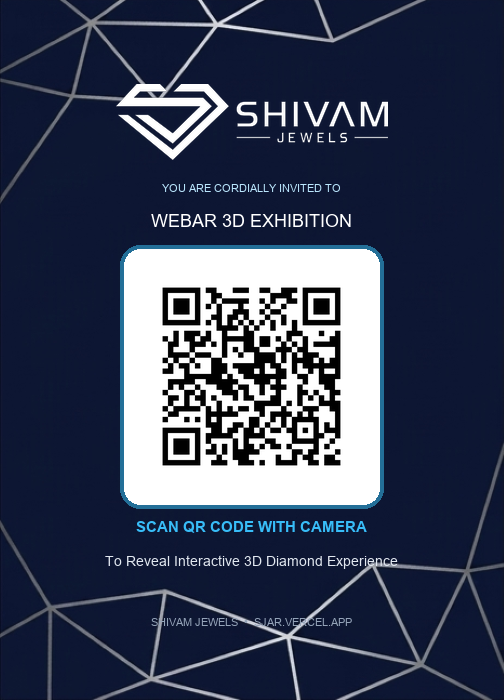
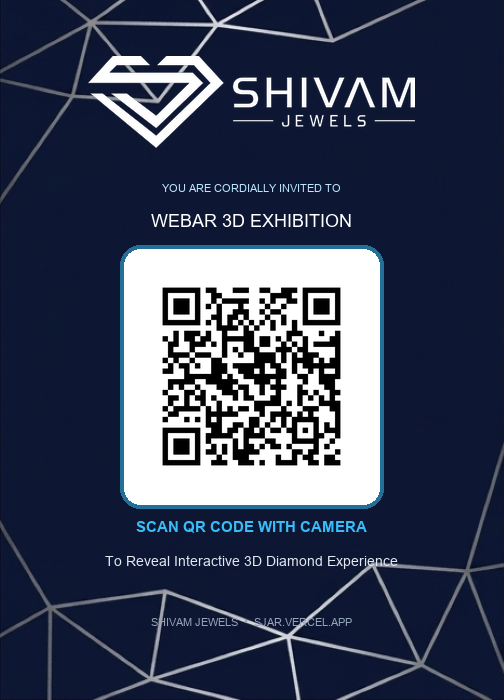
.

Changed region(s): [[0.1786, 0.06, 0.8333, 0.24]]

diff --git a/js/app.js b/js/app.js
@@ -1,11 +1,17 @@
 /**
  * WebAR MindAR.js & A-Frame Controller for Shivam Jewels
  * 
- * Handles camera permission, real-time QR code decoding,
- * MindAR target tracking, and camera-to-target distance calculation.
+ * Strict Dual-Requirement Verification:
+ * 1. MindAR image target border match (targets.mind)
+ * 2. Real-time QR Code scanning & payload verification (jsQR.js)
+ * 
+ * ONLY when BOTH requirements pass does the 3D invitation card view render.
  */
 (function() {
-  let isTracking = false;
+  let isMindArFound = false;
+  let isQrScanned = false;
+  let isDualVerified = false;
+  let lastQrMatchTime = 0;
   let qrScanInterval = null;
 
   // Synthesized Web Audio API Synthesizer for feedback chimes
@@ -43,6 +49,67 @@
       }
     } catch (e) {
       console.warn("Audio chime error:", e);
+    }
+  }
+
+  // Dual Condition Evaluator Function
+  function evaluateDualRequirements() {
+    const statusPill = document.getElementById('status-pill');
+    const statusText = document.getElementById('status-text');
+    const reticle = document.getElementById('scanning-reticle');
+    const targetEntity = document.getElementById('ar-target');
+
+    const gltfModel = document.getElementById('3d-model-entity');
+    const modelContainer = document.getElementById('3d-model-container');
+    const cardBackPlane = document.getElementById('card-back-plane');
+    const bannerPlane = document.getElementById('banner-plane');
+    const logoPlane = document.getElementById('logo-plane');
+
+    // STRICT DUAL-MATCH CONDITION:
+    // Requirement 1: QR Code is scanned in frame AND
+    // Requirement 2: Card Border target rays are matched via MindAR
+    if (isMindArFound && isQrScanned) {
+      if (!isDualVerified) {
+        isDualVerified = true;
+        if (statusPill) statusPill.className = 'status-pill tracking';
+        if (statusText) statusText.textContent = 'Shivam Jewels QR & Border Verified!';
+        if (reticle) reticle.classList.add('hidden');
+        playSound('found');
+
+        // Reveal 3D invitation card & 3D model
+        [gltfModel, modelContainer, cardBackPlane, bannerPlane, logoPlane].forEach(el => {
+          if (el) {
+            el.setAttribute('visible', 'true');
+            if (el.object3D) el.object3D.visible = true;
+          }
+        });
+        if (targetEntity && targetEntity.object3D) targetEntity.object3D.visible = true;
+      }
+    } else {
+      if (isDualVerified) {
+        isDualVerified = false;
+        if (statusPill) statusPill.className = 'status-pill searching';
+        if (reticle) reticle.classList.remove('hidden');
+
+        // Hide 3D invitation card & 3D model until both requirements are fulfilled
+        [gltfModel, modelContainer, cardBackPlane, bannerPlane, logoPlane].forEach(el => {
+          if (el) {
+            el.setAttribute('visible', 'false');
+            if (el.object3D) el.object3D.visible = false;
+          }
+        });
+      }
+
+      // Update descriptive status message for user
+      if (statusText && !isDualVerified) {
+        if (isMindArFound && !isQrScanned) {
+          statusText.textContent = 'Border Matched - Scan QR Code...';
+        } else if (!isMindArFound && isQrScanned) {
+          statusText.textContent = 'QR Matched - Align Card Border...';
+        } else {
+          statusText.textContent = 'Scanning Target...';
+        }
+      }
     }
   }
 
@@ -102,54 +169,21 @@
   };
 
   function initApp() {
-    const statusPill = document.getElementById('status-pill');
-    const statusText = document.getElementById('status-text');
-    const reticle = document.getElementById('scanning-reticle');
     const targetEntity = document.getElementById('ar-target');
 
-    // Real-time camera-to-target distance calculator
-    function updateDistanceTracking() {
-      if (!isTracking) return;
-      const camera = document.querySelector('a-camera');
-      if (camera && targetEntity && targetEntity.object3D) {
-        const camPos = camera.object3D.position;
-        const targetPos = targetEntity.object3D.position;
-        const dist = camPos.distanceTo(targetPos);
-
-        if (dist > 0.01 && statusText) {
-          statusText.textContent = `Shivam Jewels QR Matched (${dist.toFixed(2)}m)`;
-        }
-      }
-    }
-
-    setInterval(updateDistanceTracking, 200);
-
-    // Target tracking event listeners
+    // MindAR Target tracking event listeners
     if (targetEntity) {
       targetEntity.addEventListener('targetFound', () => {
-        isTracking = true;
-        if (statusPill) statusPill.className = 'status-pill tracking';
-        if (statusText) statusText.textContent = 'Shivam Jewels QR Matched!';
-        if (reticle) reticle.classList.add('hidden');
-        playSound('found');
-
-        // Ensure 3D diamond entity, card back plane, banner plane & logo plane are explicitly visible
-        const gltfModel = document.getElementById('3d-model-entity');
-        const modelContainer = document.getElementById('3d-model-container');
-        const cardBackPlane = document.getElementById('card-back-plane');
-        const bannerPlane = document.getElementById('banner-plane');
-        const logoPlane = document.getElementById('logo-plane');
-        
-        [gltfModel, modelContainer, cardBackPlane, bannerPlane, logoPlane].forEach(el => {
-          if (el) {
-            el.setAttribute('visible', 'true');
-            if (el.object3D) el.object3D.visible = true;
-          }
-        });
-        if (targetEntity.object3D) targetEntity.object3D.visible = true;
+        isMindArFound = true;
+        evaluateDualRequirements();
       });
 
-      // Listen for 3D GLB model loading and enhance specular materials for 54-gem showcase ring
+      targetEntity.addEventListener('targetLost', () => {
+        isMindArFound = false;
+        evaluateDualRequirements();
+      });
+
+      // Material enhancer for 3D GLB model
       const gltfModel = document.getElementById('3d-model-entity');
       if (gltfModel) {
         gltfModel.addEventListener('model-loaded', () => {
@@ -168,10 +202,6 @@
                     mat.color = new THREE.Color(0xdce2ea);
                     mat.roughness = 0.15;
                     mat.metalness = 0.9;
-                  } else if (mat.name.includes("Black")) {
-                    mat.color = new THREE.Color(0x0a0a0e);
-                    mat.roughness = 0.4;
-                    mat.metalness = 0.1;
                   }
                   mat.side = THREE.DoubleSide;
                   mat.needsUpdate = true;
@@ -181,13 +211,6 @@
           }
         });
       }
-
-      targetEntity.addEventListener('targetLost', () => {
-        isTracking = false;
-        if (statusPill) statusPill.className = 'status-pill searching';
-        if (statusText) statusText.textContent = 'Scanning Target...';
-        if (reticle) reticle.classList.remove('hidden');
-      });
     }
 
     const btnStartAr = document.getElementById('btn-start-ar');
@@ -199,17 +222,11 @@
   // Real-time Camera QR Code Scanner using jsQR
   const offscreenCanvas = document.createElement('canvas');
   const offscreenCtx = offscreenCanvas.getContext('2d');
-  let lastQrMatchTime = 0;
 
   function startQRScanningLoop() {
     if (qrScanInterval) return;
     qrScanInterval = setInterval(() => {
       const video = document.querySelector('video');
-      const gltfModel = document.getElementById('3d-model-entity');
-      const targetEntity = document.getElementById('ar-target');
-      const statusPill = document.getElementById('status-pill');
-      const statusText = document.getElementById('status-text');
-      const reticle = document.getElementById('scanning-reticle');
 
       if (!video || video.readyState !== video.HAVE_ENOUGH_DATA) return;
 
@@ -234,27 +251,15 @@
             const isMatchingUrl = val.includes('sjar.vercel.app') || val.includes('sjar') || val.includes('shivamai') || val.includes('3d.shivamai.studio');
             if (isMatchingUrl) {
               lastQrMatchTime = Date.now();
-
-              if (!isTracking) {
-                isTracking = true;
-                if (statusPill) statusPill.className = 'status-pill tracking';
-                if (statusText) statusText.textContent = 'Shivam Jewels QR Matched!';
-                if (reticle) reticle.classList.add('hidden');
-                playSound('found');
-
-                if (gltfModel) gltfModel.setAttribute('visible', 'true');
-                if (targetEntity) targetEntity.object3D.visible = true;
+              if (!isQrScanned) {
+                isQrScanned = true;
+                evaluateDualRequirements();
               }
             }
           } else {
-            if (isTracking && (Date.now() - lastQrMatchTime > 3000)) {
-              const isMindARTracking = targetEntity && targetEntity.object3D && targetEntity.object3D.visible;
-              if (!isMindARTracking) {
-                isTracking = false;
-                if (statusPill) statusPill.className = 'status-pill searching';
-                if (statusText) statusText.textContent = 'Scanning Target...';
-                if (reticle) reticle.classList.remove('hidden');
-              }
+            if (isQrScanned && (Date.now() - lastQrMatchTime > 2000)) {
+              isQrScanned = false;
+              evaluateDualRequirements();
             }
           }
         }

diff --git a/index.html b/index.html
@@ -100,24 +100,24 @@
       <a-entity light="type: point; color: #ffffff; intensity: 3.0; distance: 5" position="0 0.5 1"></a-entity>
 
       <!-- 1. Shivam Jewels Card Back (Facing camera continuously at center position 0 0 0) -->
-      <a-plane id="card-back-plane" src="#cardBack" position="0 0 0" rotation="0 0 0" width="1.0" height="1.4"
+      <a-plane id="card-back-plane" src="#cardBack" position="0 0 0" rotation="0 0 0" width="1.0" height="1.4" visible="false"
         material="transparent: true; side: double; shader: flat; depthTest: true;">
       </a-plane>
 
-      <!-- 2. Shivam Jewels Banner (Positioned on RIGHT side of card back x=1.05, tilted -45 deg facing camera) -->
-      <a-plane id="banner-plane" src="#shivamBanner" position="1.05 0 0" rotation="0 -45 0" width="1.0" height="1.4"
+      <!-- 2. Shivam Jewels Banner (Positioned on RIGHT side of card back x=1.05, tilted -20 deg facing camera) -->
+      <a-plane id="banner-plane" src="#shivamBanner" position="1.05 0 0" rotation="0 -20 0" width="1.0" height="1.4" visible="false"
         material="transparent: true; side: double; shader: flat; depthTest: true;">
       </a-plane>
 
-      <!-- 3. Shivam Jewels Official Logo (Positioned on Card Back top center) -->
-      <a-plane id="logo-plane" src="#shivamLogo" position="0 0.55 0.02" rotation="0 0 0" width="0.85" height="0.23"
+      <!-- 3. Shivam Jewels Official Logo (Moved upside & scaled 2.1x) -->
+      <a-plane id="logo-plane" src="#shivamLogo" position="0 0.92 0.02" rotation="0 0 0" width="1.80" height="0.48" visible="false"
         material="transparent: true; side: double; shader: flat; depthTest: true;">
       </a-plane>
 
       <!-- 4. Authentic 3D Diamond Ring Showcase (Positioned between card back & banner, rotating continuously) -->
-      <a-entity id="3d-model-container" position="0 0 0.25" rotation="0 0 0"
+      <a-entity id="3d-model-container" position="0 0 0.25" rotation="0 0 0" visible="false"
         animation="property: rotation; from: 0 0 0; to: 0 0 -360; loop: true; dur: 15000; easing: linear">
-        <a-gltf-model id="3d-model-entity" src="./assets/model.glb" scale="0.55 0.55 0.55" position="0 0 0" rotation="0 0 0">
+        <a-gltf-model id="3d-model-entity" src="./assets/model.glb" scale="0.55 0.55 0.55" position="0 0 0" rotation="0 0 0" visible="false">
         </a-gltf-model>
       </a-entity>
 

diff --git a/scripts/create_invitation_card.py b/scripts/create_invitation_card.py
@@ -54,15 +54,15 @@ def generate_invitation_card(
                 new_logo_data.append((0, 0, 0, 0))
         logo_img.putdata(new_logo_data)
 
-        # Scale logo to ~54% width of canvas
-        logo_w = int(width * 0.54)
+        # Scale logo to ~65% width of canvas
+        logo_w = int(width * 0.65)
         aspect = logo_img.height / logo_img.width
         logo_h = int(logo_w * aspect)
         logo_resized = logo_img.resize((logo_w, logo_h), Image.Resampling.LANCZOS)
 
-        # Paste logo at top section
+        # Paste logo at top upside section
         logo_x = (width - logo_w) // 2
-        logo_y = int(height * 0.12)
+        logo_y = int(height * 0.08)
         canvas.paste(logo_resized, (logo_x, logo_y), logo_resized)
 
     # 4. Load & Process QR target code
